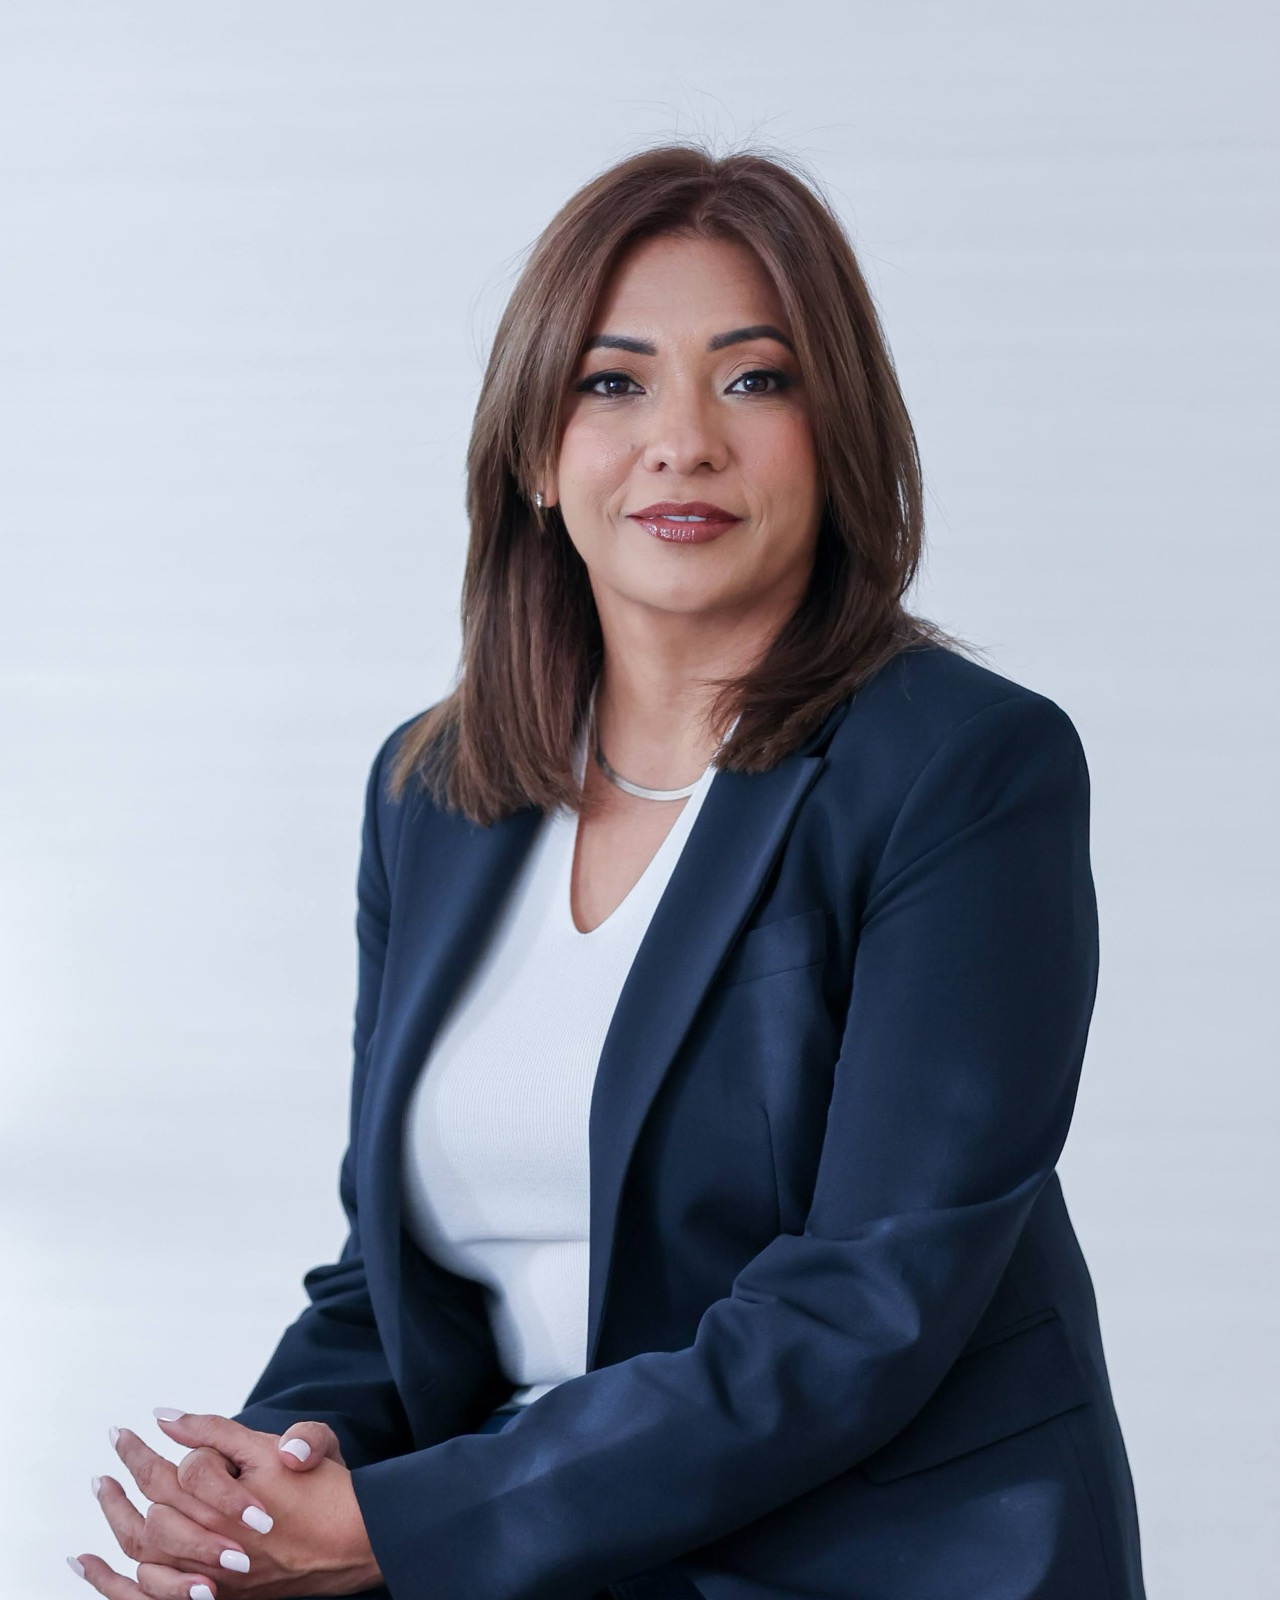
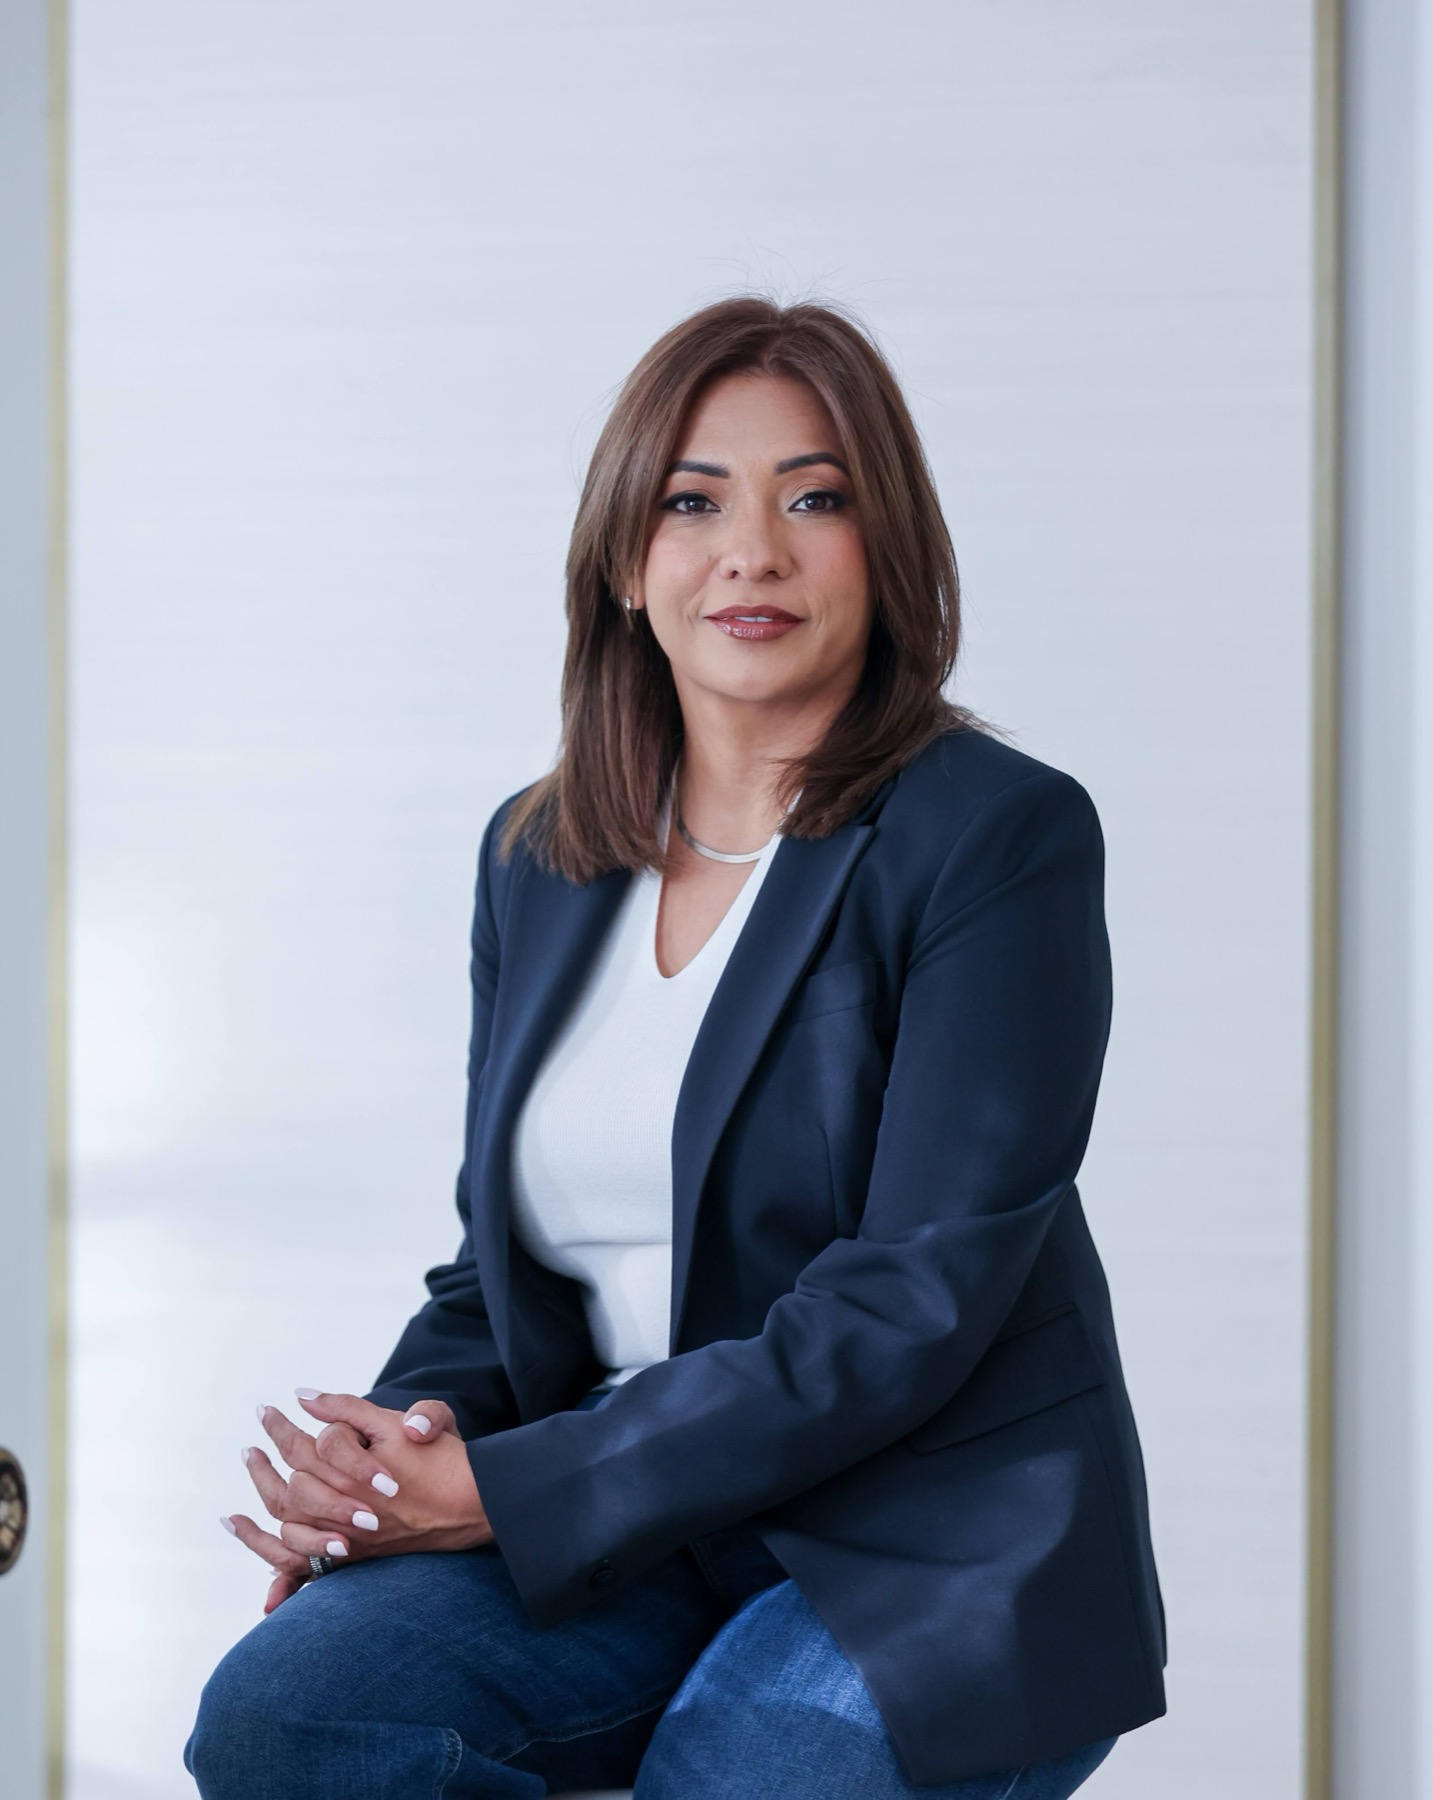
About: large portrait panel with the writing inside the image

diff --git a/index.html b/index.html
@@ -1,5 +1,5 @@
 <title>WithinWorks Leadership</title>
-<link rel="icon" type="image/png" href="img/favicon.png?v=6">
+<link rel="icon" type="image/png" href="img/favicon.png?v=9">
 <link rel="preconnect" href="https://fonts.googleapis.com">
 <link rel="preconnect" href="https://fonts.gstatic.com" crossorigin>
 <link rel="stylesheet" href="https://fonts.googleapis.com/css2?family=Caveat:wght@500;600&family=Fraunces:ital,opsz,wght@0,9..144,400;0,9..144,500;0,9..144,600;1,9..144,400;1,9..144,500&family=Jost:wght@300;400;500&display=swap">
@@ -476,76 +476,81 @@
   /* ---------- about ---------- */
   .about { display: grid; grid-template-columns: 1fr 1fr; gap: 3.5rem; align-items: center; }
 
-  .about-visual { position: relative; padding-block: 0.5rem; }
+  .portrait {
+    position: relative;
+    margin: 0;
+    border-radius: 6px;
+    overflow: hidden;
+    aspect-ratio: 1433 / 1800;
+    box-shadow: 0 30px 70px rgba(61, 58, 53, 0.18), 0 6px 18px rgba(61, 58, 53, 0.08);
+  }
+  .portrait > img:first-child { width: 100%; height: 100%; object-fit: cover; display: block; }
 
-  .about-hi {
+  /* Light falls off from the edges inward, so the writing reads without a panel */
+  .wash {
+    position: absolute; inset: 0; pointer-events: none;
+    background:
+      linear-gradient(to right,  rgba(250,248,245,.86) 0%, rgba(250,248,245,.38) 20%, rgba(250,248,245,0) 40%),
+      linear-gradient(to left,   rgba(250,248,245,.84) 0%, rgba(250,248,245,.34) 18%, rgba(250,248,245,0) 38%),
+      linear-gradient(to bottom, rgba(250,248,245,.80) 0%, rgba(250,248,245,.22) 16%, rgba(250,248,245,0) 32%);
+  }
+
+  .hi {
+    position: absolute; top: 4.5%; left: 0; right: 0;
+    text-align: center;
     font-family: var(--serif);
-    font-size: 1.45rem;
-    margin: 0 0 1rem;
-    text-align: right;
+    font-size: clamp(1.1rem, 1.9vw, 1.5rem);
     color: var(--text);
+    margin: 0;
+    line-height: 1.1;
   }
-  .about-hi span {
+  .hi em {
+    display: block;
     font-family: var(--script);
-    font-size: 2.3rem;
+    font-style: normal;
+    font-size: clamp(2rem, 3.6vw, 2.9rem);
     color: var(--clay-deep);
-    margin-left: 0.3rem;
+    line-height: 1;
+    margin-top: 0.1em;
   }
 
-  .about-stage {
-    display: grid;
-    grid-template-columns: 1fr 1.35fr;
-    gap: 1.2rem;
-    align-items: center;
-  }
-
-  .pointers { list-style: none; margin: 0; padding: 0; display: grid; gap: 1.6rem; }
-  .pointers li {
+  .pnote {
+    position: absolute;
     display: flex;
     flex-direction: column;
-    align-items: flex-end;
     gap: 0.3rem;
-    text-align: right;
-  }
-  .pointers span {
-    font-size: 0.86rem;
+    font-family: var(--sans);
+    font-weight: 400;
+    font-size: clamp(0.7rem, 0.98vw, 0.82rem);
     line-height: 1.4;
     color: var(--text);
-    letter-spacing: 0.01em;
+    letter-spacing: 0.012em;
   }
-  .pointers svg {
-    width: 52px; height: 24px;
-    stroke: var(--clay); stroke-width: 1.5; fill: none;
+  .pnote svg {
+    width: clamp(38px, 4.4vw, 54px); height: auto;
+    stroke: var(--clay); stroke-width: 2; fill: none;
     stroke-linecap: round; stroke-linejoin: round;
   }
+  /* kept to the pale studio background, clear of her jacket */
+  .p1 { top: 14%; left: 3%; width: 32%; }
+  .p1 svg { align-self: flex-end; }
+  .p2 { top: 34%; right: 3%; width: 29%; text-align: right; align-items: flex-end; }
 
-  .about-photo {
-    position: relative;
-    border-radius: 3px;
-    overflow: visible;
-    aspect-ratio: 4 / 5;
-  }
-  .about-photo > img:first-child {
-    width: 100%; height: 100%;
-    object-fit: cover;
-    border-radius: 3px;
-  }
-  .badge-sticker {
+  .badge {
     position: absolute;
-    right: -1.4rem;
-    bottom: 1.6rem;
-    width: 74px;
+    right: 4%; bottom: 4%;
+    width: clamp(52px, 7.5vw, 86px);
     height: auto;
-    filter: drop-shadow(0 6px 16px rgba(61, 58, 53, 0.18));
+    filter: drop-shadow(0 6px 16px rgba(61, 58, 53, 0.22));
   }
 
-  .photo-caption {
-    font-family: var(--serif);
-    font-style: italic;
-    font-size: 0.88rem;
-    color: var(--text-faint);
-    text-align: right;
-    margin: 1.1rem 0 0;
+  @media (max-width: 62rem) {
+    .about { grid-template-columns: 1fr; gap: 2.5rem; }
+    .portrait { max-width: 34rem; }
+  }
+  @media (max-width: 34rem) {
+    .pnote { font-size: 0.64rem; }
+    .pnote svg { width: 30px; }
   }
 
   .about-prose p { color: var(--text-light); margin: 0 0 1rem; }
@@ -907,7 +912,7 @@
 <!-- HERO -->
 <section class="hero">
   <div class="shell hero-grid">
-    <div class="hero-photo"><img src="img/hero.jpg?v=6" alt="Megha Bhalla, executive and transformational coach"></div>
+    <div class="hero-photo"><img src="img/hero.jpg?v=9" alt="Megha Bhalla, executive and transformational coach"></div>
     <div>
       <p class="eyebrow">Executive &amp; transformational coaching</p>
       <h1>Transformation happens from the <span class="lean marked">inside out<svg viewBox="0 0 200 12" aria-hidden="true" preserveAspectRatio="none"><path d="M3 8.5C38 3.2 92 2.4 142 5.1c18 1 38 2.4 55 4.2"/></svg></span>.</h1>
@@ -933,11 +938,11 @@
   <div class="shell">
     <p class="proof-label">A career built across</p>
     <div class="proof-row rise">
-      <img src="img/logos/traveazy.png?v=6" alt="Traveazy Group" data-knockout>
-      <img src="img/logos/holidayme.png?v=6" alt="Holidayme">
-      <img src="img/logos/umrahme.png?v=6" alt="Umrahme">
-      <img src="img/logos/barclays.svg?v=6" alt="Barclays">
-      <img src="img/logos/citibank.svg?v=6" alt="Citibank">
+      <img src="img/logos/traveazy.png?v=9" alt="Traveazy Group" data-knockout>
+      <img src="img/logos/holidayme.png?v=9" alt="Holidayme">
+      <img src="img/logos/umrahme.png?v=9" alt="Umrahme">
+      <img src="img/logos/barclays.svg?v=9" alt="Barclays">
+      <img src="img/logos/citibank.svg?v=9" alt="Citibank">
     </div>
   </div>
 </div>
@@ -1027,7 +1032,7 @@
 
 <!-- QUOTE BAND -->
 <div class="qband band-dark">
-  <img src="img/band.jpg?v=6" alt="Megha Bhalla in her workspace">
+  <img src="img/band.jpg?v=9" alt="Megha Bhalla in her workspace">
   <div class="qband-copy">
     <p class="eyebrow">The approach</p>
     <span class="glyph" aria-hidden="true">&ldquo;</span>
@@ -1078,35 +1083,24 @@
   <div class="shell about">
 
     <div class="about-visual rise">
-      <p class="about-hi">Hi, I&rsquo;m <span>Megha</span></p>
+      <figure class="portrait">
+        <img src="img/about.jpg?v=9" alt="Megha Bhalla, executive and transformational coach">
+        <span class="wash" aria-hidden="true"></span>
 
-      <div class="about-stage">
-        <ul class="pointers">
-          <li>
-            <span>Certified Co-Active Coach<br>CPCC, and ICF member</span>
-            <svg viewBox="0 0 64 30" aria-hidden="true"><path d="M2 5c20 1 40 7 58 19"/><path d="M52 27l10-3-4-10"/></svg>
-          </li>
-          <li>
-            <span>Former Chief People Officer<br>Traveazy Group</span>
-            <svg viewBox="0 0 64 24" aria-hidden="true"><path d="M2 12h56"/><path d="M50 4l10 8-10 8"/></svg>
-          </li>
-          <li>
-            <span>14 years in global banking<br>Barclays and Citibank</span>
-            <svg viewBox="0 0 64 30" aria-hidden="true"><path d="M2 25c20-1 40-7 58-19"/><path d="M52 3l10 3-4 10"/></svg>
-          </li>
-          <li>
-            <span>Built a people function<br>from zero to 350+</span>
-            <svg viewBox="0 0 64 34" aria-hidden="true"><path d="M2 30c22-2 42-11 58-27"/><path d="M50 1l11 2-2 11"/></svg>
-          </li>
-        </ul>
+        <p class="hi">Hi, I&rsquo;m <em>Megha</em></p>
 
-        <div class="about-photo">
-          <img src="img/about.jpg?v=6" alt="Megha Bhalla">
-          <img class="badge-sticker" src="img/logos/cpcc-badge.png?v=6" alt="">
+        <div class="pnote p1">
+          <span>Certified Co-Active Coach<br>CPCC, and ICF member</span>
+          <svg viewBox="0 0 70 34" aria-hidden="true"><path d="M3 5c22 1 42 9 60 24"/><path d="M53 27l12-2-3-12"/></svg>
         </div>
-      </div>
 
-      <p class="photo-caption">25 years across the UAE, the Middle East and Asia</p>
+        <div class="pnote p2">
+          <svg viewBox="0 0 70 30" aria-hidden="true"><path d="M67 24C47 23 27 16 5 5"/><path d="M16 3L4 5l3 12"/></svg>
+          <span>Former Chief People Officer<br>Traveazy Group</span>
+        </div>
+
+        <img class="badge" src="img/logos/cpcc-badge.png?v=9" alt="Certified Professional Co-Active Coach">
+      </figure>
     </div>
 
     <div class="about-prose rise">
@@ -1265,7 +1259,7 @@
         <a class="btn btn-mocha" href="#">Download the brochure</a>
       </div>
     </div>
-    <div class="cta-photo"><img src="img/online.jpg?v=6" alt="An online coaching session"></div>
+    <div class="cta-photo"><img src="img/online.jpg?v=9" alt="An online coaching session"></div>
   </div>
 </section>
 
